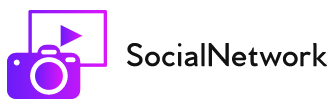
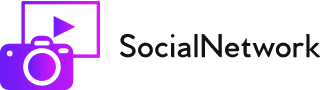
need to fix the placement of profile tab in the navbar

Changed region(s): [[0.0, 0.0, 0.3427, 1.0], [0.3738, 0.3778, 0.9969, 0.6444], [0.5296, 0.3778, 0.5607, 0.4444]]

diff --git a/polls/templates/polls/index.html b/polls/templates/polls/index.html
@@ -32,9 +32,9 @@
           <!-- nav bar -->
           <nav class="navbar navbar-expand-md sticky-top justify-content-between">
             <!-- nav bar logo - SocialNetwork -->
-            <a href="#" class="navbar-brand" style="margin-left:100px">
+            <a href="#" class="navbar-brand" style="margin-left:100px; margin-down:-20px">
               {% load static %}
-              <img src="{% static "polls/SocialNetwork2.png" %}" alt="logo" width=210 height=70 >
+              <img src="{% static "polls/SocialNetwork2.png" %}" alt="logo" width=175 height=55 >
             </a>
 
             <!-- collapsable nav bar when screen is small -->
@@ -46,31 +46,32 @@
 
             <!-- nav bar content -->
             <div class="collapse navbar-collapse" id="collapsibleNavbar">
+              <ul class="navbar-nav ml-auto" style="margin-top: 10px; margin-bottom: 10px; margin-left: 100px">
+                <!-- somehow get this to move all the way to the left (bs4 formatting) -->
+                <li class="nav-item">
+                  <a class="nav-link gridtheme navbartheme" href="http://127.0.0.1:8000/profile" style="font-size:0.65em;">Profile</a>
+                </li>
+              </ul>
+
               <!-- search bar - not sure what to do with it yet (sink up with django? make it an actual form) -->
-              <ul class="navbar-nav ml-auto" style="margin-top: 10px; margin-bottom: 10px">
+              <ul class="navbar-nav ml-auto" style="margin-top: 10px;">
               <li class="nav-item float-right">
               <form class="form-inline ml-auto nav-link " style="margin-right:100px">
                 <div class="md-form my-0 ml-auto form-inline">
 
                     <input class="form-control float-right" type="text" placeholder="Search" aria-label="Search">
 
+              <!-- bunch of closing tags that thankfully match up  -->
                 </div>
               </form>
               </li>
-
               </ul>
             </div>
+            </nav>
            </div>
-
-         </nav>
-
        </div>
-     </div>
-    <!-- random intro blurb -->
-    <h1>The Social Network</h1>
-    <h3>Your safe space to post real life instead of fake media.</h3>
-    <p>social social social social social social social every day</p>
-    <br>
+
+       <hr>
 
     <!-- only displays if the user is logged in -->
     {% if loggedIn %}
@@ -111,7 +112,8 @@
         <button type="submit">Logout</button>
       </form>
 
-    <!-- if user is not logged in, allow them to log in -->
+    <!-- if user is not logged in, allow them to log in -> make it possible to
+    submit the form if the enter key is pressed-->
     {% else %}
       <!-- login form -->
       <form action="http://127.0.0.1:8000/" method="post">
